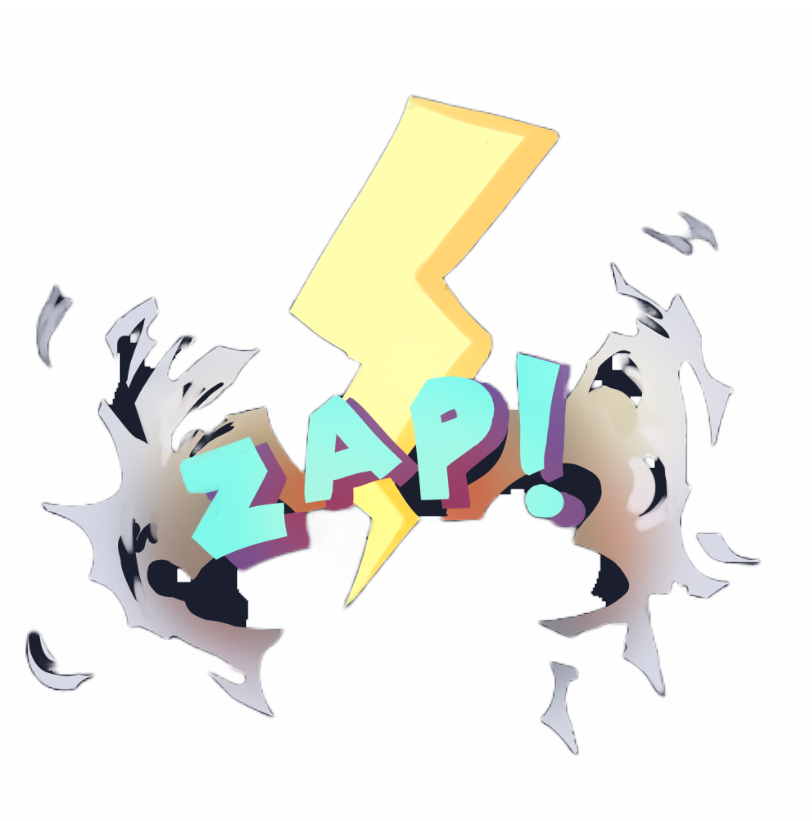
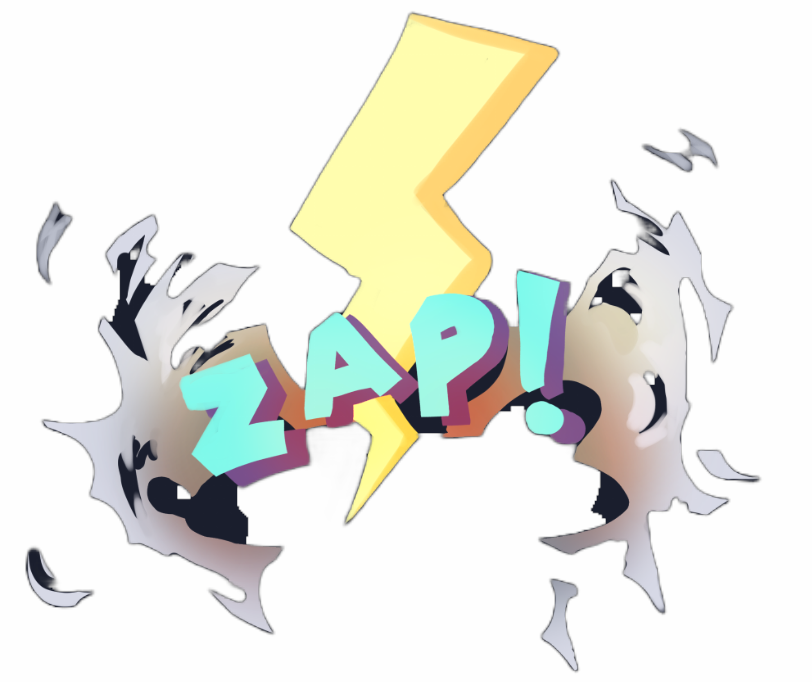
edited image

diff --git a/src/components/Pool/Banner.tsx b/src/components/Pool/Banner.tsx
@@ -47,7 +47,7 @@ const Banner = () => {
             </div>
             <div className={style.zap}>
                 <div className="hidden h-[100px] w-full text-center md:block">
-                    <Image src="https://zksync-cryptoswap.s3.amazonaws.com/assets/zap.png" width={210} height={125}/>
+                    <Image src="https://zksync-cryptoswap.s3.amazonaws.com/assets/zap.png" width={210} height={135}/>
                 </div>
                 <div className={style.zapText}>
                     <div>
